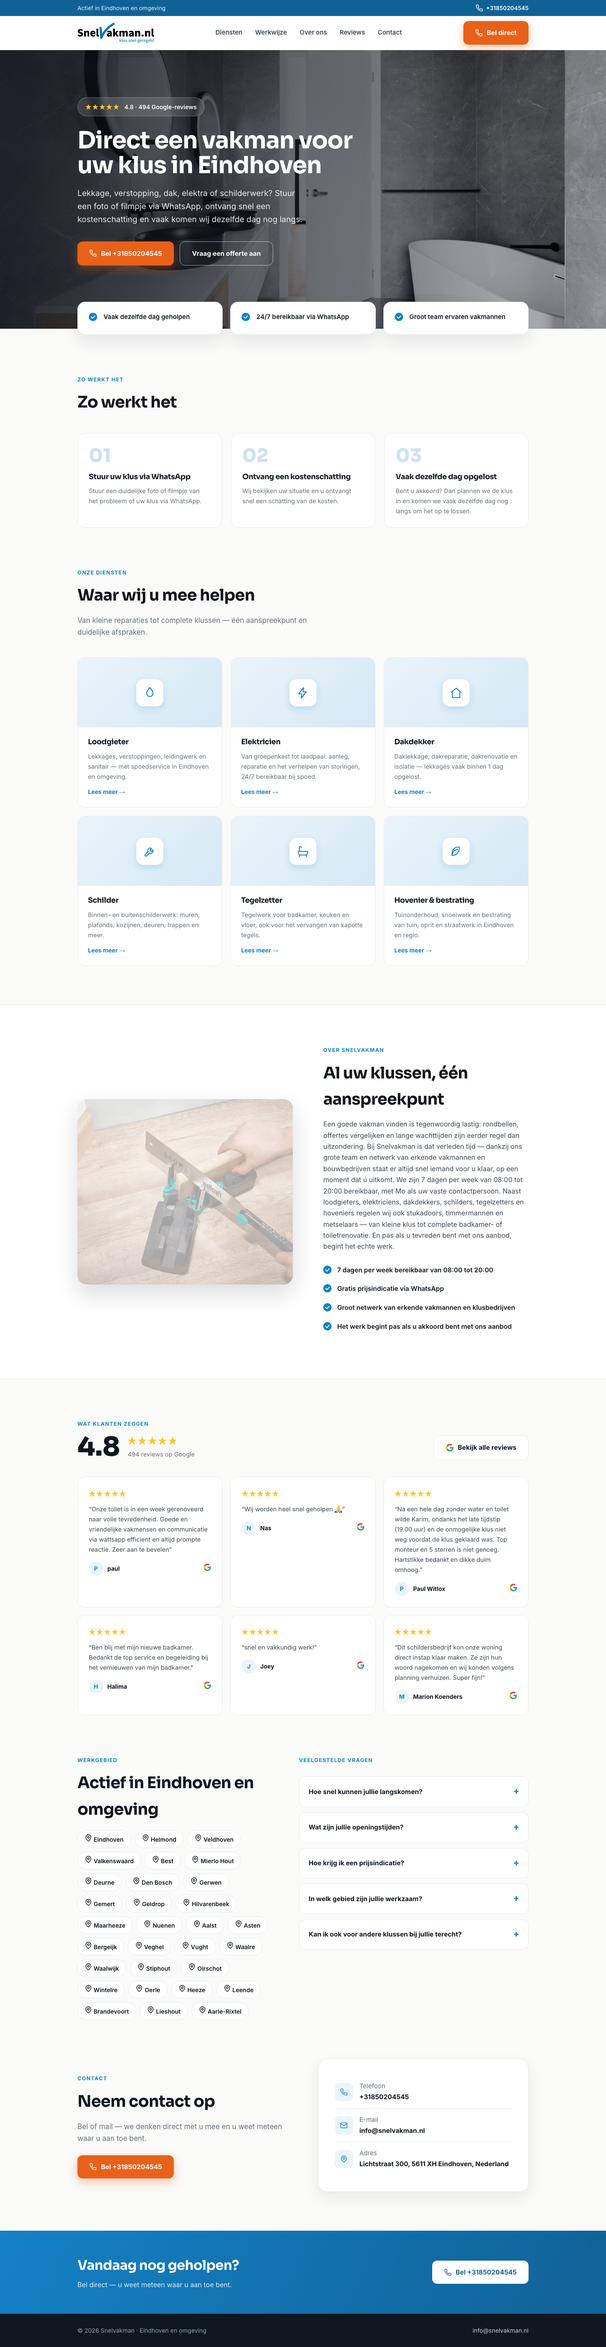
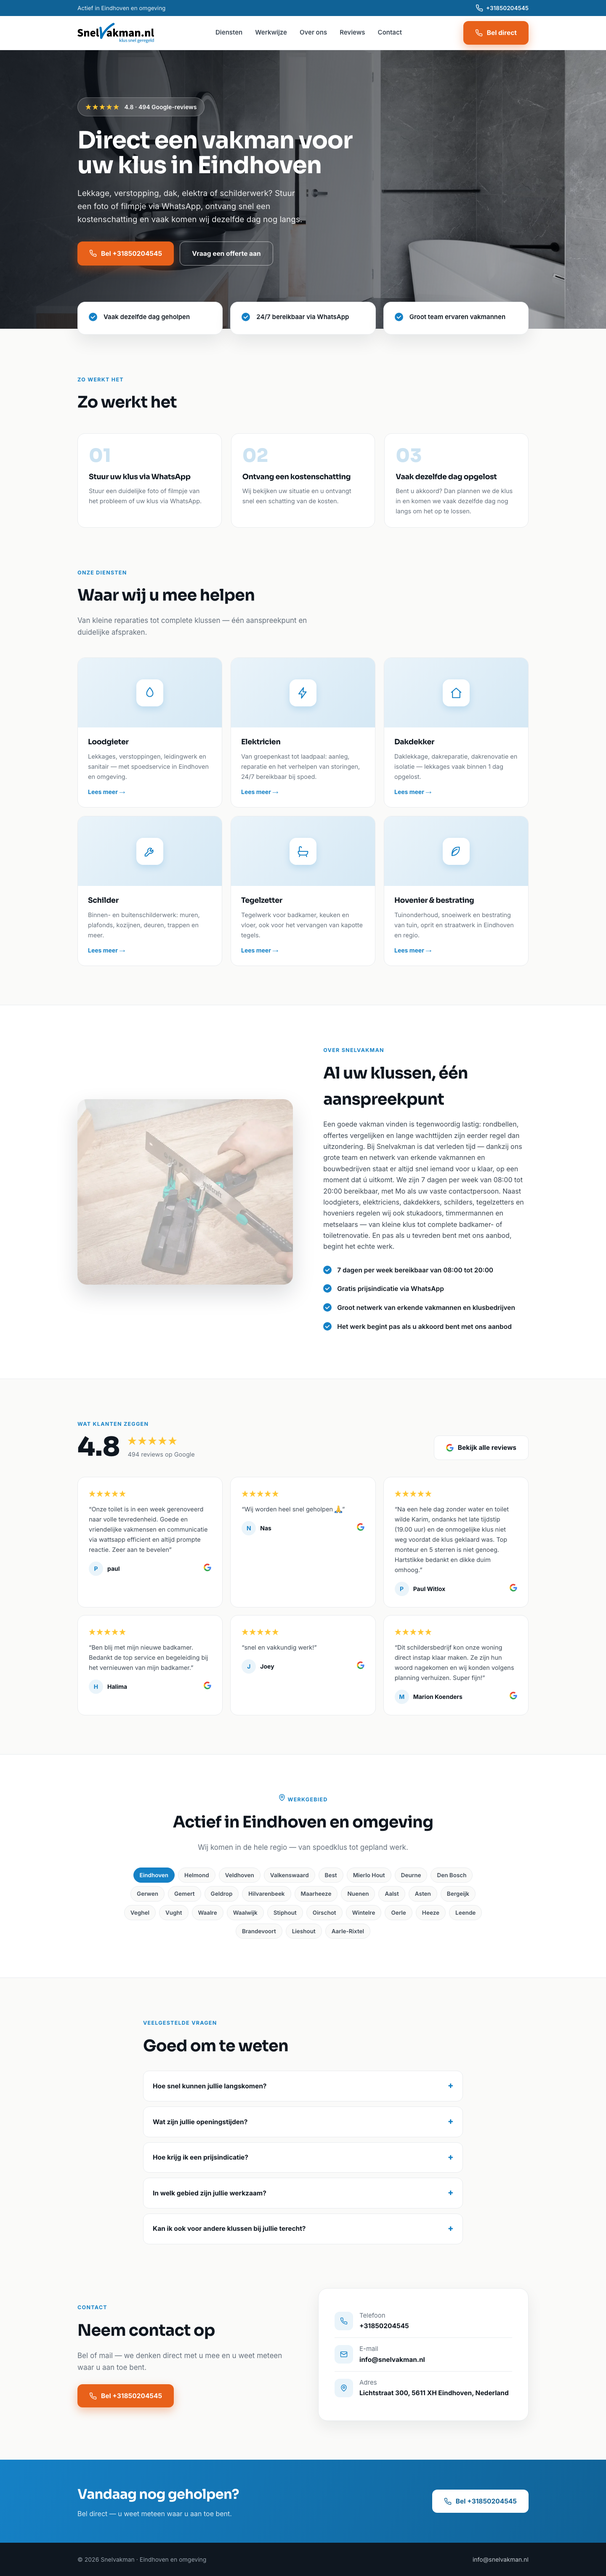
deploy mockups 2026-09-01_14:38

diff --git a/snelvakman.nl/index.html b/snelvakman.nl/index.html
@@ -156,18 +156,24 @@
   .review .who .av { width: 34px; height: 34px; border-radius: 50%; background: var(--accent-soft);
     color: var(--accent); display: grid; place-items: center; font-weight: 800; }
 
-  .duo { display: grid; grid-template-columns: 1fr 1.2fr; gap: 72px; align-items: start; }
-  .chips { display: flex; flex-wrap: wrap; gap: 9px; margin-top: 18px; }
-  .chip { background: var(--card); border: 1px solid var(--line); border-radius: 999px;
-    padding: 8px 16px; font-weight: 600; font-size: 14px; color: var(--ink); }
+  .faqwrap { max-width: 760px; margin: 0 auto; }
   details { background: var(--card); border: 1px solid var(--line); border-radius: 14px;
     padding: 18px 22px; margin-bottom: 12px; }
   details summary { font-weight: 700; color: var(--ink); font-size: 15.5px; list-style: none;
     display: flex; justify-content: space-between; align-items: center; gap: 12px; }
+  details summary::-webkit-details-marker { display: none; }
   details summary::after { content: '+'; font-family: 'Sora'; font-size: 21px; color: var(--accent); }
   details[open] summary::after { content: '–'; }
   details p { margin-top: 10px; font-size: 14.5px; color: var(--muted); }
-  @media (max-width: 880px) { .duo { grid-template-columns: 1fr; gap: 40px; } }
+
+  .areas { background: #fff; border-top: 1px solid var(--line); border-bottom: 1px solid var(--line);
+    text-align: center; }
+  .areas .lead-p { margin-inline: auto; }
+  .chips { display: flex; flex-wrap: wrap; justify-content: center; gap: 8px;
+    max-width: 860px; margin: 0 auto; }
+  .chip { background: var(--bg); border: 1px solid var(--line); border-radius: 999px;
+    padding: 6px 14px; font-weight: 600; font-size: 13.5px; color: var(--body); }
+  .chip.first { background: var(--accent); border-color: var(--accent); color: #fff; }
 
   .contact .wrap { display: grid; grid-template-columns: 1fr 1fr; gap: 72px; align-items: center; }
   .contact-card { background: var(--card); border: 1px solid var(--line); border-radius: 22px; padding: 38px;
@@ -314,22 +320,50 @@
   </div>
 </div></section>
 
-<section style="padding-top:0"><div class="wrap"><div class="duo">
-  <div>
-    <span class="kicker">Werkgebied</span>
-    <h2 class="rv">Actief in Eindhoven en omgeving</h2>
-    <div class="chips"><span class="chip"><svg width="18" height="18" viewBox="0 0 24 24" fill="none" stroke="currentColor" stroke-width="2" stroke-linecap="round" stroke-linejoin="round" aria-hidden="true"><path d="M20 10c0 6-8 12-8 12s-8-6-8-12a8 8 0 0 1 16 0z"/><circle cx="12" cy="10" r="3"/></svg> Eindhoven</span> <span class="chip"><svg width="18" height="18" viewBox="0 0 24 24" fill="none" stroke="currentColor" stroke-width="2" stroke-linecap="round" stroke-linejoin="round" aria-hidden="true"><path d="M20 10c0 6-8 12-8 12s-8-6-8-12a8 8 0 0 1 16 0z"/><circle cx="12" cy="10" r="3"/></svg> Helmond</span> <span class="chip"><svg width="18" height="18" viewBox="0 0 24 24" fill="none" stroke="currentColor" stroke-width="2" stroke-linecap="round" stroke-linejoin="round" aria-hidden="true"><path d="M20 10c0 6-8 12-8 12s-8-6-8-12a8 8 0 0 1 16 0z"/><circle cx="12" cy="10" r="3"/></svg> Veldhoven</span> <span class="chip"><svg width="18" height="18" viewBox="0 0 24 24" fill="none" stroke="currentColor" stroke-width="2" stroke-linecap="round" stroke-linejoin="round" aria-hidden="true"><path d="M20 10c0 6-8 12-8 12s-8-6-8-12a8 8 0 0 1 16 0z"/><circle cx="12" cy="10" r="3"/></svg> Valkenswaard</span> <span class="chip"><svg width="18" height="18" viewBox="0 0 24 24" fill="none" stroke="currentColor" stroke-width="2" stroke-linecap="round" stroke-linejoin="round" aria-hidden="true"><path d="M20 10c0 6-8 12-8 12s-8-6-8-12a8 8 0 0 1 16 0z"/><circle cx="12" cy="10" r="3"/></svg> Best</span> <span class="chip"><svg width="18" height="18" viewBox="0 0 24 24" fill="none" stroke="currentColor" stroke-width="2" stroke-linecap="round" stroke-linejoin="round" aria-hidden="true"><path d="M20 10c0 6-8 12-8 12s-8-6-8-12a8 8 0 0 1 16 0z"/><circle cx="12" cy="10" r="3"/></svg> Mierlo Hout</span> <span class="chip"><svg width="18" height="18" viewBox="0 0 24 24" fill="none" stroke="currentColor" stroke-width="2" stroke-linecap="round" stroke-linejoin="round" aria-hidden="true"><path d="M20 10c0 6-8 12-8 12s-8-6-8-12a8 8 0 0 1 16 0z"/><circle cx="12" cy="10" r="3"/></svg> Deurne</span> <span class="chip"><svg width="18" height="18" viewBox="0 0 24 24" fill="none" stroke="currentColor" stroke-width="2" stroke-linecap="round" stroke-linejoin="round" aria-hidden="true"><path d="M20 10c0 6-8 12-8 12s-8-6-8-12a8 8 0 0 1 16 0z"/><circle cx="12" cy="10" r="3"/></svg> Den Bosch</span> <span class="chip"><svg width="18" height="18" viewBox="0 0 24 24" fill="none" stroke="currentColor" stroke-width="2" stroke-linecap="round" stroke-linejoin="round" aria-hidden="true"><path d="M20 10c0 6-8 12-8 12s-8-6-8-12a8 8 0 0 1 16 0z"/><circle cx="12" cy="10" r="3"/></svg> Gerwen</span> <span class="chip"><svg width="18" height="18" viewBox="0 0 24 24" fill="none" stroke="currentColor" stroke-width="2" stroke-linecap="round" stroke-linejoin="round" aria-hidden="true"><path d="M20 10c0 6-8 12-8 12s-8-6-8-12a8 8 0 0 1 16 0z"/><circle cx="12" cy="10" r="3"/></svg> Gemert</span> <span class="chip"><svg width="18" height="18" viewBox="0 0 24 24" fill="none" stroke="currentColor" stroke-width="2" stroke-linecap="round" stroke-linejoin="round" aria-hidden="true"><path d="M20 10c0 6-8 12-8 12s-8-6-8-12a8 8 0 0 1 16 0z"/><circle cx="12" cy="10" r="3"/></svg> Geldrop</span> <span class="chip"><svg width="18" height="18" viewBox="0 0 24 24" fill="none" stroke="currentColor" stroke-width="2" stroke-linecap="round" stroke-linejoin="round" aria-hidden="true"><path d="M20 10c0 6-8 12-8 12s-8-6-8-12a8 8 0 0 1 16 0z"/><circle cx="12" cy="10" r="3"/></svg> Hilvarenbeek</span> <span class="chip"><svg width="18" height="18" viewBox="0 0 24 24" fill="none" stroke="currentColor" stroke-width="2" stroke-linecap="round" stroke-linejoin="round" aria-hidden="true"><path d="M20 10c0 6-8 12-8 12s-8-6-8-12a8 8 0 0 1 16 0z"/><circle cx="12" cy="10" r="3"/></svg> Maarheeze</span> <span class="chip"><svg width="18" height="18" viewBox="0 0 24 24" fill="none" stroke="currentColor" stroke-width="2" stroke-linecap="round" stroke-linejoin="round" aria-hidden="true"><path d="M20 10c0 6-8 12-8 12s-8-6-8-12a8 8 0 0 1 16 0z"/><circle cx="12" cy="10" r="3"/></svg> Nuenen</span> <span class="chip"><svg width="18" height="18" viewBox="0 0 24 24" fill="none" stroke="currentColor" stroke-width="2" stroke-linecap="round" stroke-linejoin="round" aria-hidden="true"><path d="M20 10c0 6-8 12-8 12s-8-6-8-12a8 8 0 0 1 16 0z"/><circle cx="12" cy="10" r="3"/></svg> Aalst</span> <span class="chip"><svg width="18" height="18" viewBox="0 0 24 24" fill="none" stroke="currentColor" stroke-width="2" stroke-linecap="round" stroke-linejoin="round" aria-hidden="true"><path d="M20 10c0 6-8 12-8 12s-8-6-8-12a8 8 0 0 1 16 0z"/><circle cx="12" cy="10" r="3"/></svg> Asten</span> <span class="chip"><svg width="18" height="18" viewBox="0 0 24 24" fill="none" stroke="currentColor" stroke-width="2" stroke-linecap="round" stroke-linejoin="round" aria-hidden="true"><path d="M20 10c0 6-8 12-8 12s-8-6-8-12a8 8 0 0 1 16 0z"/><circle cx="12" cy="10" r="3"/></svg> Bergeijk</span> <span class="chip"><svg width="18" height="18" viewBox="0 0 24 24" fill="none" stroke="currentColor" stroke-width="2" stroke-linecap="round" stroke-linejoin="round" aria-hidden="true"><path d="M20 10c0 6-8 12-8 12s-8-6-8-12a8 8 0 0 1 16 0z"/><circle cx="12" cy="10" r="3"/></svg> Veghel</span> <span class="chip"><svg width="18" height="18" viewBox="0 0 24 24" fill="none" stroke="currentColor" stroke-width="2" stroke-linecap="round" stroke-linejoin="round" aria-hidden="true"><path d="M20 10c0 6-8 12-8 12s-8-6-8-12a8 8 0 0 1 16 0z"/><circle cx="12" cy="10" r="3"/></svg> Vught</span> <span class="chip"><svg width="18" height="18" viewBox="0 0 24 24" fill="none" stroke="currentColor" stroke-width="2" stroke-linecap="round" stroke-linejoin="round" aria-hidden="true"><path d="M20 10c0 6-8 12-8 12s-8-6-8-12a8 8 0 0 1 16 0z"/><circle cx="12" cy="10" r="3"/></svg> Waalre</span> <span class="chip"><svg width="18" height="18" viewBox="0 0 24 24" fill="none" stroke="currentColor" stroke-width="2" stroke-linecap="round" stroke-linejoin="round" aria-hidden="true"><path d="M20 10c0 6-8 12-8 12s-8-6-8-12a8 8 0 0 1 16 0z"/><circle cx="12" cy="10" r="3"/></svg> Waalwijk</span> <span class="chip"><svg width="18" height="18" viewBox="0 0 24 24" fill="none" stroke="currentColor" stroke-width="2" stroke-linecap="round" stroke-linejoin="round" aria-hidden="true"><path d="M20 10c0 6-8 12-8 12s-8-6-8-12a8 8 0 0 1 16 0z"/><circle cx="12" cy="10" r="3"/></svg> Stiphout</span> <span class="chip"><svg width="18" height="18" viewBox="0 0 24 24" fill="none" stroke="currentColor" stroke-width="2" stroke-linecap="round" stroke-linejoin="round" aria-hidden="true"><path d="M20 10c0 6-8 12-8 12s-8-6-8-12a8 8 0 0 1 16 0z"/><circle cx="12" cy="10" r="3"/></svg> Oirschot</span> <span class="chip"><svg width="18" height="18" viewBox="0 0 24 24" fill="none" stroke="currentColor" stroke-width="2" stroke-linecap="round" stroke-linejoin="round" aria-hidden="true"><path d="M20 10c0 6-8 12-8 12s-8-6-8-12a8 8 0 0 1 16 0z"/><circle cx="12" cy="10" r="3"/></svg> Wintelre</span> <span class="chip"><svg width="18" height="18" viewBox="0 0 24 24" fill="none" stroke="currentColor" stroke-width="2" stroke-linecap="round" stroke-linejoin="round" aria-hidden="true"><path d="M20 10c0 6-8 12-8 12s-8-6-8-12a8 8 0 0 1 16 0z"/><circle cx="12" cy="10" r="3"/></svg> Oerle</span> <span class="chip"><svg width="18" height="18" viewBox="0 0 24 24" fill="none" stroke="currentColor" stroke-width="2" stroke-linecap="round" stroke-linejoin="round" aria-hidden="true"><path d="M20 10c0 6-8 12-8 12s-8-6-8-12a8 8 0 0 1 16 0z"/><circle cx="12" cy="10" r="3"/></svg> Heeze</span> <span class="chip"><svg width="18" height="18" viewBox="0 0 24 24" fill="none" stroke="currentColor" stroke-width="2" stroke-linecap="round" stroke-linejoin="round" aria-hidden="true"><path d="M20 10c0 6-8 12-8 12s-8-6-8-12a8 8 0 0 1 16 0z"/><circle cx="12" cy="10" r="3"/></svg> Leende</span> <span class="chip"><svg width="18" height="18" viewBox="0 0 24 24" fill="none" stroke="currentColor" stroke-width="2" stroke-linecap="round" stroke-linejoin="round" aria-hidden="true"><path d="M20 10c0 6-8 12-8 12s-8-6-8-12a8 8 0 0 1 16 0z"/><circle cx="12" cy="10" r="3"/></svg> Brandevoort</span> <span class="chip"><svg width="18" height="18" viewBox="0 0 24 24" fill="none" stroke="currentColor" stroke-width="2" stroke-linecap="round" stroke-linejoin="round" aria-hidden="true"><path d="M20 10c0 6-8 12-8 12s-8-6-8-12a8 8 0 0 1 16 0z"/><circle cx="12" cy="10" r="3"/></svg> Lieshout</span> <span class="chip"><svg width="18" height="18" viewBox="0 0 24 24" fill="none" stroke="currentColor" stroke-width="2" stroke-linecap="round" stroke-linejoin="round" aria-hidden="true"><path d="M20 10c0 6-8 12-8 12s-8-6-8-12a8 8 0 0 1 16 0z"/><circle cx="12" cy="10" r="3"/></svg> Aarle-Rixtel</span></div>
-  </div>
-  <div>
-    <span class="kicker">Veelgestelde vragen</span>
-    <div style="margin-top:16px">
-    <details class="rv"><summary>Hoe snel kunnen jullie langskomen?</summary><p>Bij spoed vaak dezelfde dag. Stuur een foto of filmpje van het probleem via WhatsApp; na uw akkoord op de kostenschatting komen wij vaak dezelfde dag nog langs. Daklekkages lossen we vaak binnen 1 dag op.</p></details>
-    <details class="rv"><summary>Wat zijn jullie openingstijden?</summary><p>Wij staan 7 dagen per week van 08:00 tot 20:00 voor u klaar om uw klus aan te nemen. Via onze WhatsApp-service zijn we bovendien 24/7 bereikbaar voor spoedgevallen.</p></details>
-    <details class="rv"><summary>Hoe krijg ik een prijsindicatie?</summary><p>Stuur uw klus gratis via WhatsApp, het liefst met een duidelijke foto of filmpje. U ontvangt snel een schatting van de kosten op maat — pas als u tevreden bent met ons aanbod, beginnen we met het echte werk.</p></details>
-    <details class="rv"><summary>In welk gebied zijn jullie werkzaam?</summary><p>Wij werken in Eindhoven en de wijde regio, van Veldhoven, Best en Helmond tot Den Bosch en Tilburg. Als hovenier en stratenmaker zijn we daarnaast actief in de regio's Tilburg, Breda, Den Bosch en Helmond. Woont u net buiten deze plaatsen? Geen probleem — wij zijn flexibel inzetbaar in de hele regio.</p></details>
-    <details class="rv"><summary>Kan ik ook voor andere klussen bij jullie terecht?</summary><p>Ja. Naast loodgieters-, elektra-, dak-, schilder-, tegel- en hovenierswerk regelen wij ook stukadoors (voor spachtelputs, raapwerk, pleisterwerk en spackspuitwerk), timmermannen en metselaars — van het verleggen van stopcontacten tot een complete badkamer- of toiletrenovatie.</p></details>
-    </div>
-  </div>
+<div class="areas"><section><div class="wrap">
+  <span class="kicker"><svg width="18" height="18" viewBox="0 0 24 24" fill="none" stroke="currentColor" stroke-width="2" stroke-linecap="round" stroke-linejoin="round" aria-hidden="true"><path d="M20 10c0 6-8 12-8 12s-8-6-8-12a8 8 0 0 1 16 0z"/><circle cx="12" cy="10" r="3"/></svg> Werkgebied</span>
+  <h2 class="rv">Actief in Eindhoven en omgeving</h2>
+  <p class="lead-p rv" style="margin-bottom:34px">Wij komen in de hele regio — van spoedklus tot gepland werk.</p>
+  <div class="chips rv"><span class="chip first">Eindhoven</span>
+    <span class="chip">Helmond</span>
+    <span class="chip">Veldhoven</span>
+    <span class="chip">Valkenswaard</span>
+    <span class="chip">Best</span>
+    <span class="chip">Mierlo Hout</span>
+    <span class="chip">Deurne</span>
+    <span class="chip">Den Bosch</span>
+    <span class="chip">Gerwen</span>
+    <span class="chip">Gemert</span>
+    <span class="chip">Geldrop</span>
+    <span class="chip">Hilvarenbeek</span>
+    <span class="chip">Maarheeze</span>
+    <span class="chip">Nuenen</span>
+    <span class="chip">Aalst</span>
+    <span class="chip">Asten</span>
+    <span class="chip">Bergeijk</span>
+    <span class="chip">Veghel</span>
+    <span class="chip">Vught</span>
+    <span class="chip">Waalre</span>
+    <span class="chip">Waalwijk</span>
+    <span class="chip">Stiphout</span>
+    <span class="chip">Oirschot</span>
+    <span class="chip">Wintelre</span>
+    <span class="chip">Oerle</span>
+    <span class="chip">Heeze</span>
+    <span class="chip">Leende</span>
+    <span class="chip">Brandevoort</span>
+    <span class="chip">Lieshout</span>
+    <span class="chip">Aarle-Rixtel</span></div>
+</div></section></div>
+
+<section><div class="wrap"><div class="faqwrap">
+  <span class="kicker">Veelgestelde vragen</span>
+  <h2 class="rv" style="margin-bottom:28px">Goed om te weten</h2>
+  <details class="rv"><summary>Hoe snel kunnen jullie langskomen?</summary><p>Bij spoed vaak dezelfde dag. Stuur een foto of filmpje van het probleem via WhatsApp; na uw akkoord op de kostenschatting komen wij vaak dezelfde dag nog langs. Daklekkages lossen we vaak binnen 1 dag op.</p></details>
+  <details class="rv"><summary>Wat zijn jullie openingstijden?</summary><p>Wij staan 7 dagen per week van 08:00 tot 20:00 voor u klaar om uw klus aan te nemen. Via onze WhatsApp-service zijn we bovendien 24/7 bereikbaar voor spoedgevallen.</p></details>
+  <details class="rv"><summary>Hoe krijg ik een prijsindicatie?</summary><p>Stuur uw klus gratis via WhatsApp, het liefst met een duidelijke foto of filmpje. U ontvangt snel een schatting van de kosten op maat — pas als u tevreden bent met ons aanbod, beginnen we met het echte werk.</p></details>
+  <details class="rv"><summary>In welk gebied zijn jullie werkzaam?</summary><p>Wij werken in Eindhoven en de wijde regio, van Veldhoven, Best en Helmond tot Den Bosch en Tilburg. Als hovenier en stratenmaker zijn we daarnaast actief in de regio's Tilburg, Breda, Den Bosch en Helmond. Woont u net buiten deze plaatsen? Geen probleem — wij zijn flexibel inzetbaar in de hele regio.</p></details>
+  <details class="rv"><summary>Kan ik ook voor andere klussen bij jullie terecht?</summary><p>Ja. Naast loodgieters-, elektra-, dak-, schilder-, tegel- en hovenierswerk regelen wij ook stukadoors (voor spachtelputs, raapwerk, pleisterwerk en spackspuitwerk), timmermannen en metselaars — van het verleggen van stopcontacten tot een complete badkamer- of toiletrenovatie.</p></details>
 </div></div></section>
 
 <section id="contact" class="contact" style="padding-top:0"><div class="wrap">
